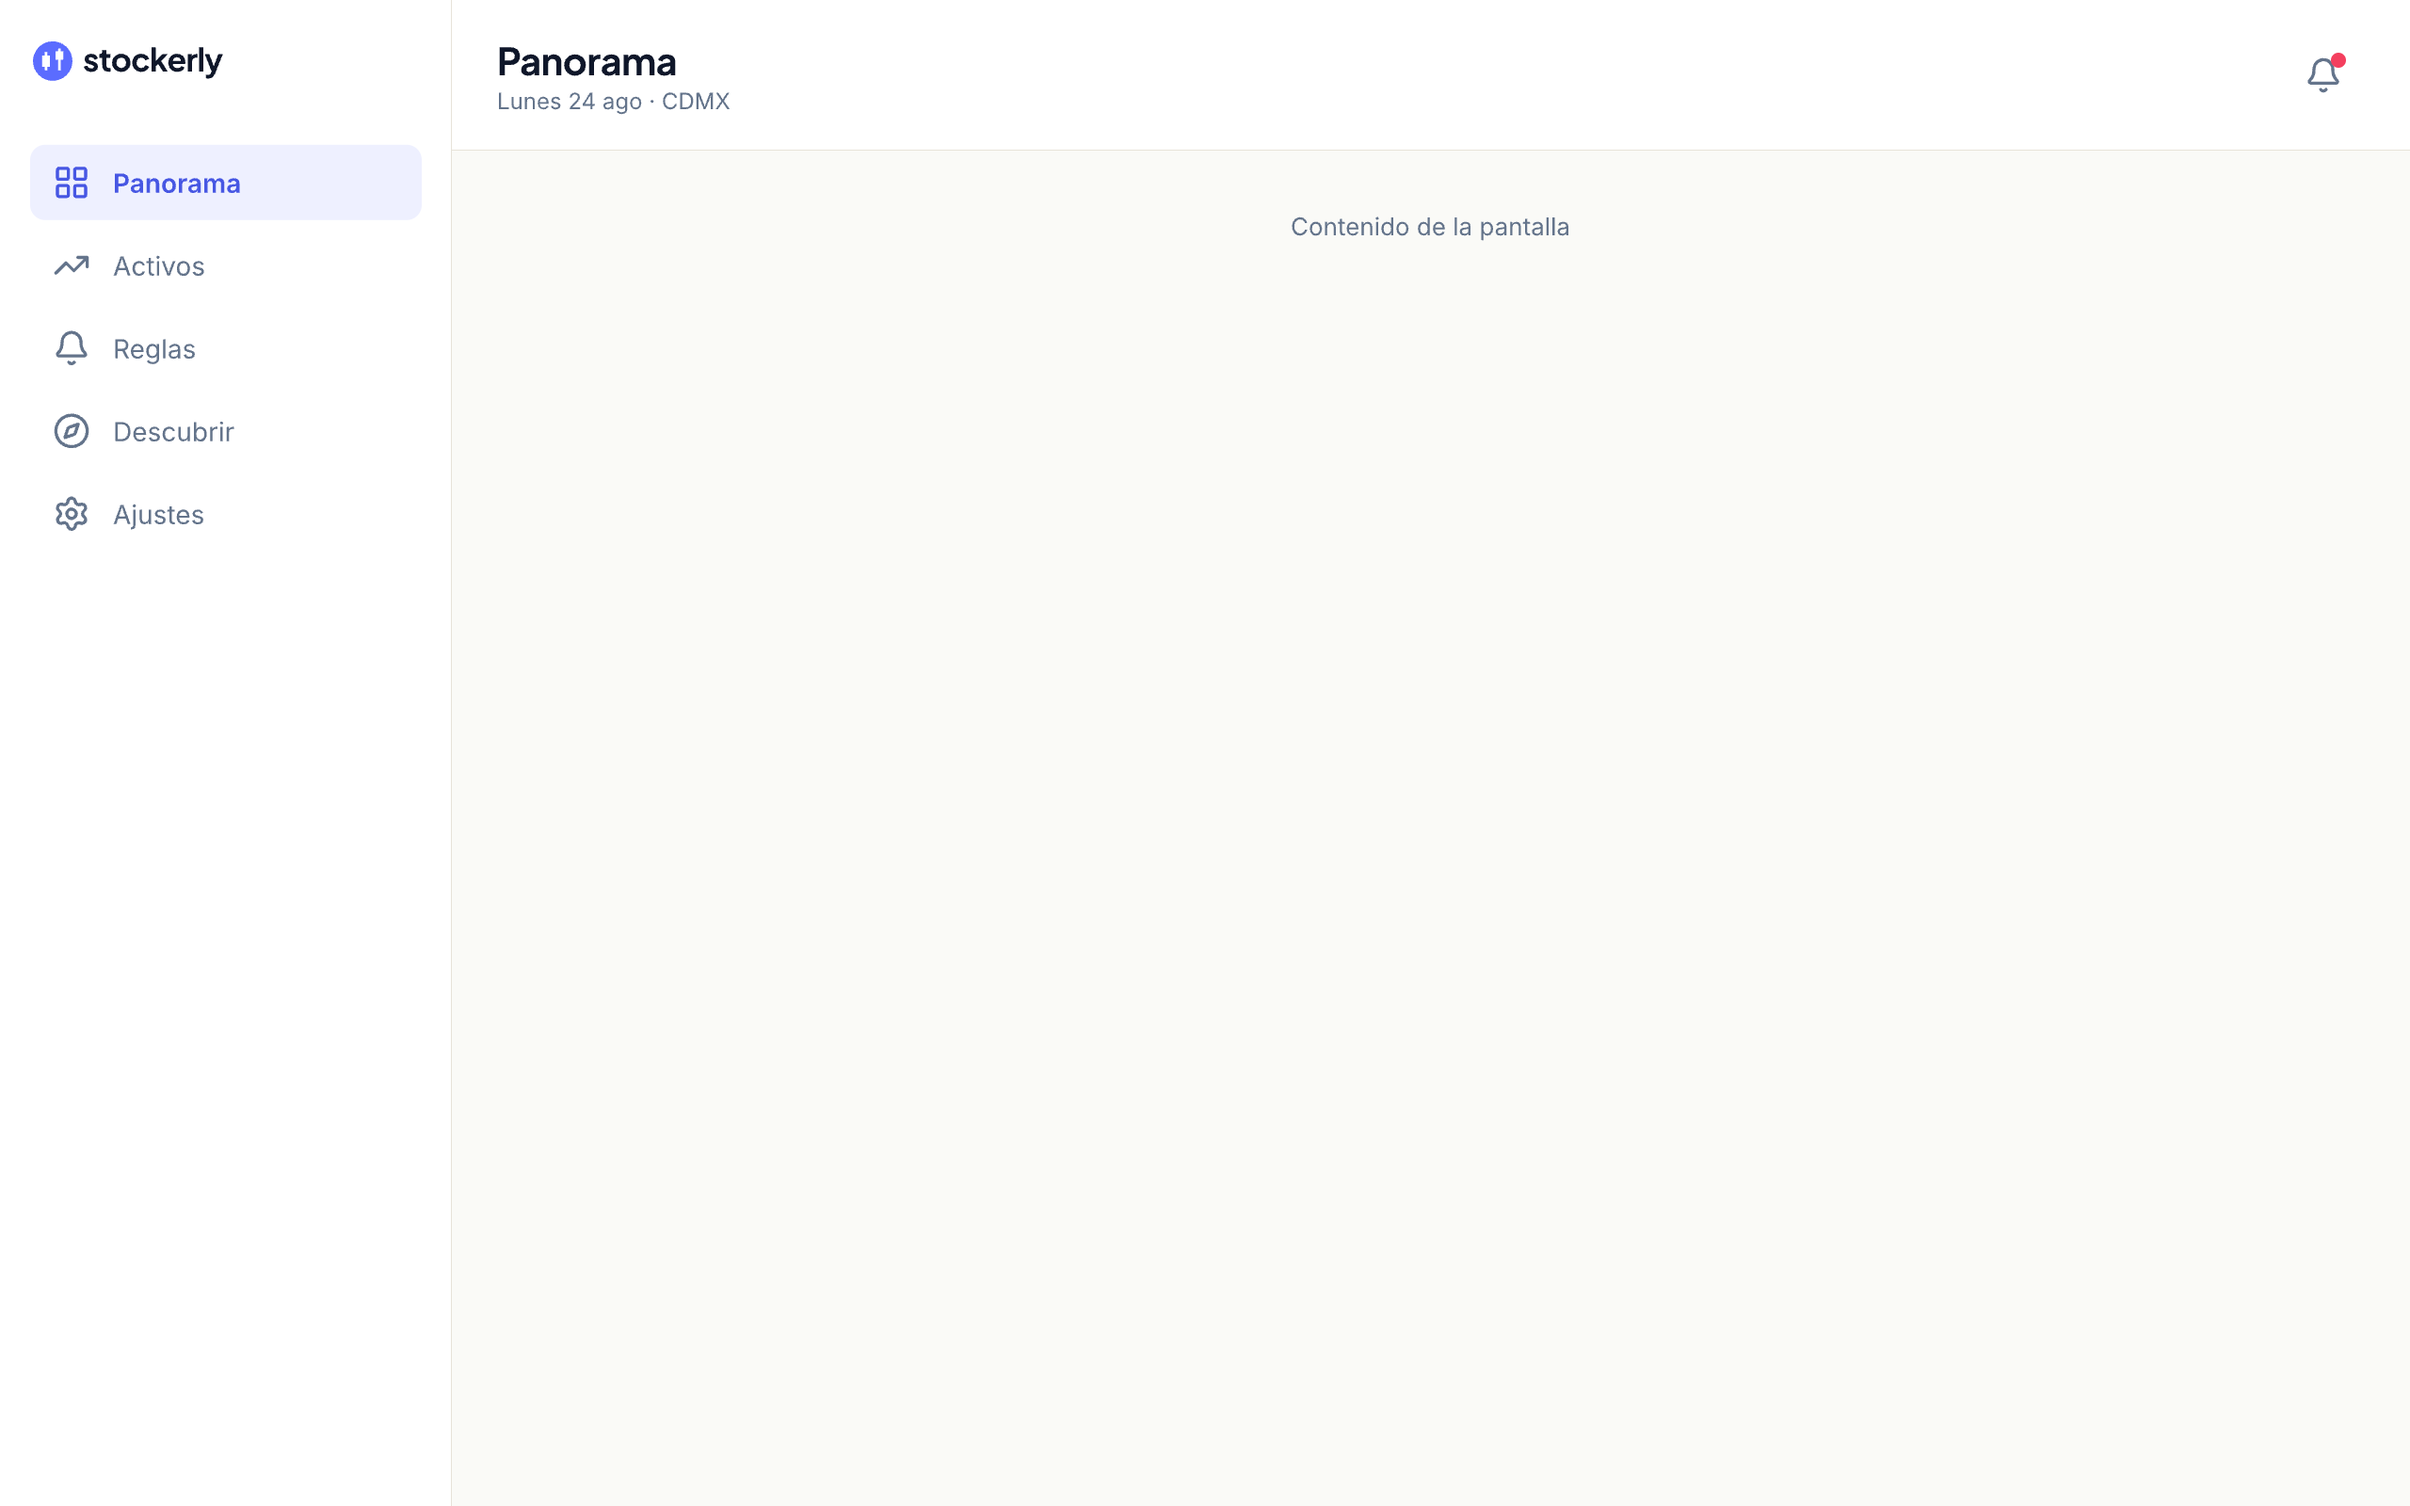
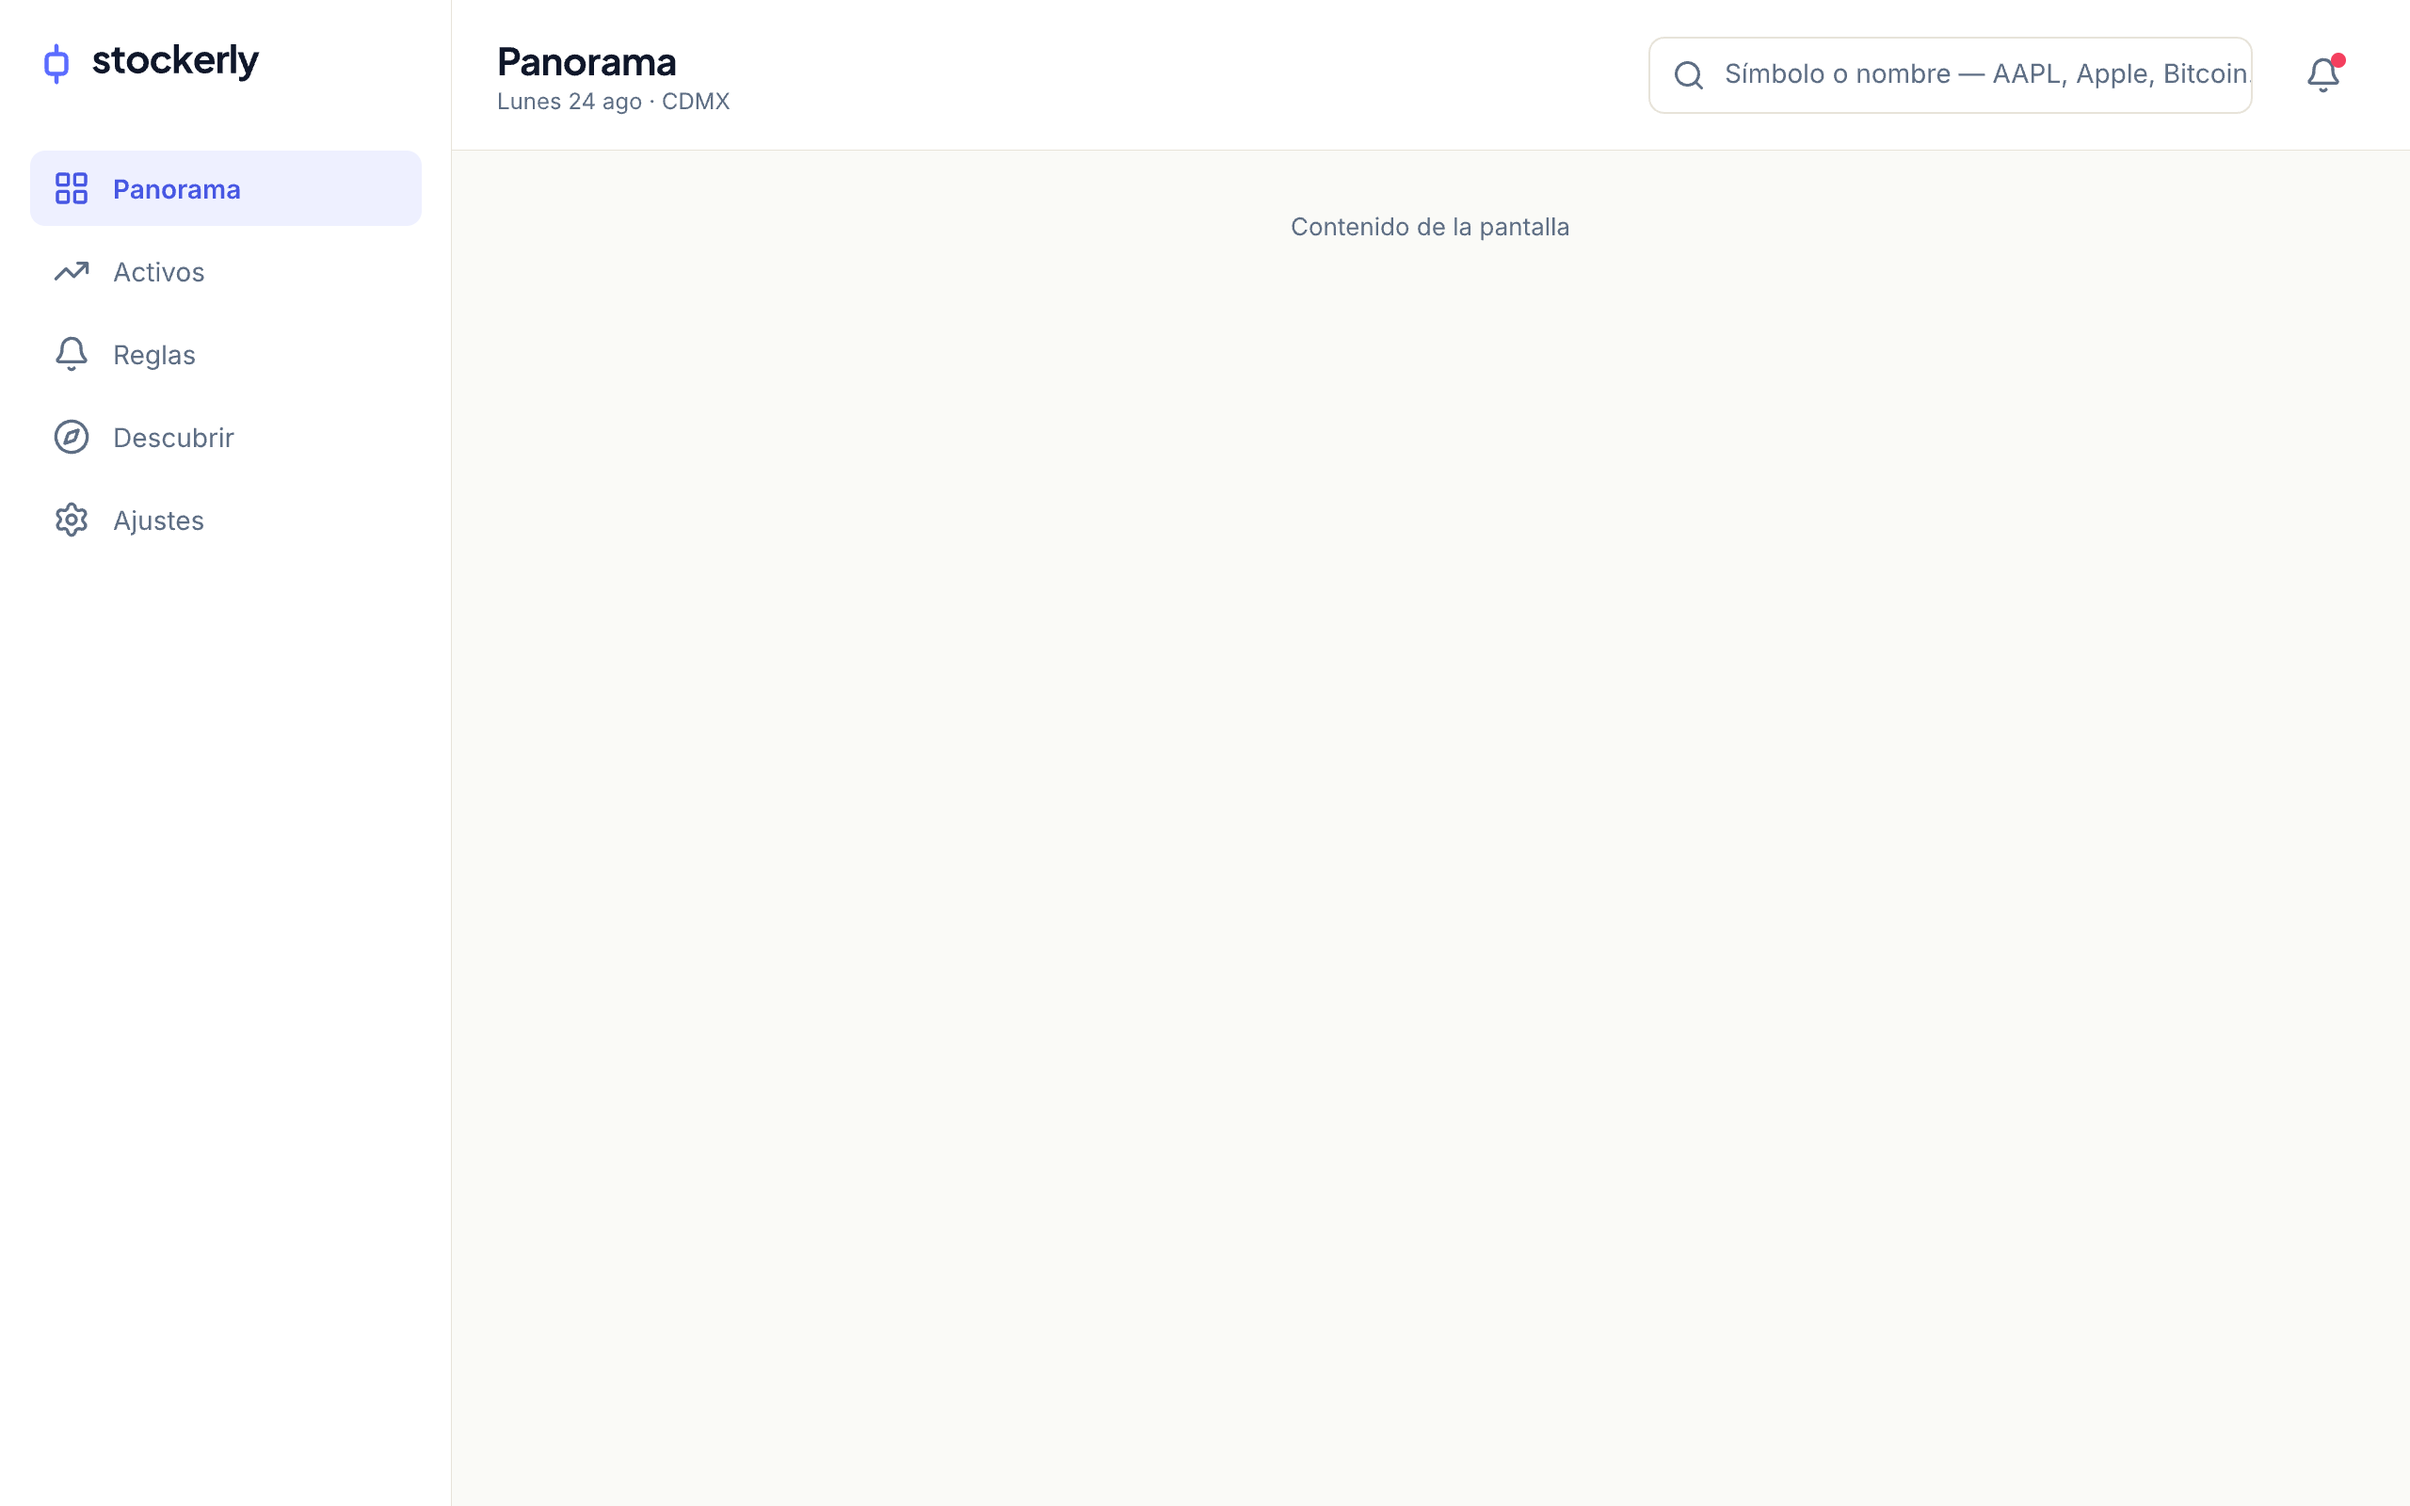
design(kit): add search to the top bars and a holding line to AssetRow (1.3.0)

diff --git a/design/ui-kit.CHANGELOG.md b/design/ui-kit.CHANGELOG.md
@@ -684,3 +684,27 @@ re-vendors** (#821 landed the code; this mirrors it).
 
 The 2 px `primary-fg` focus ring and the reduced-motion rule have no kit node: the kit draws no
 focus variants yet, and motion tokens are ui-motion's decision.
+
+---
+
+## 1.3.0 — search in both bars, and the holding line
+
+Minor: three components gain a child, no token changes. **Additive — flows re-vendor when next
+opened**; an instance that does not opt in renders as before.
+
+- **`TopBar`** — the bell moves into an `Acciones` row (gap 4) behind a 44 × 44 `search` button in
+  the bell's icon size and colour, linking to `/search` with `nav.buscar` (`components/_top_bar.html.erb`).
+- **`TopBarDesktop`** — a 320-wide search field before the bell, styled as `field_classes(:md)`
+  (`radius-sm`, 18 px `search` icon, 14 px placeholder `assets.tracked.buscar_placeholder`), from
+  `components/_top_bar_desktop.html.erb`. The placeholder is clipped at the field's edge, as the
+  input clips it. `Sub` stays in the master; it renders only where a screen sets
+  `content_for(:page_subtitle)`, so instances without one set it `enabled: false`.
+- **`AssetRow`** — an optional `Holding` block under `Name`, `enabled: false` by default: the
+  share of the total (`assets.index.del_patrimonio`) and the unrealised gain in mono 12, the gain in
+  `$positive-fg` / `$negative-fg` (`components/_asset_row.html.erb`). Drawn on two lines because
+  that is where a 390-wide row wraps it; a wider row may set the block horizontal.
+
+### Not mirrored, on purpose
+
+`TopBarDesktop`'s `Sub` is still sans 12 in the kit; the code renders it mono 11 uppercase with
+wide tracking. A style change to an existing child, so it waits for its own bump.
